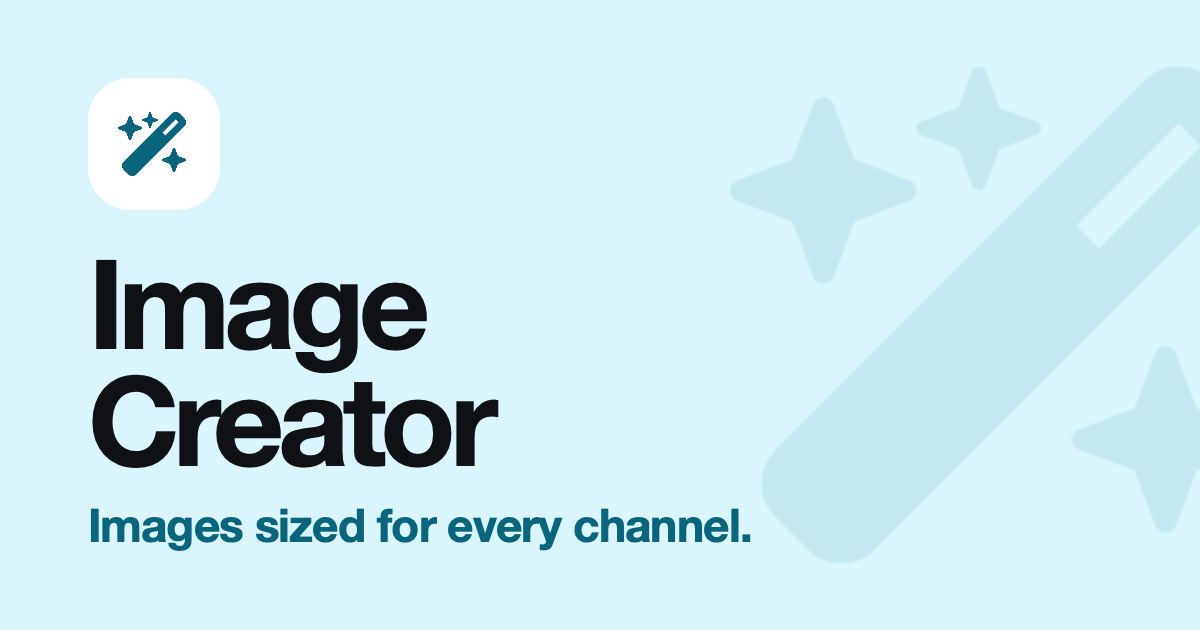
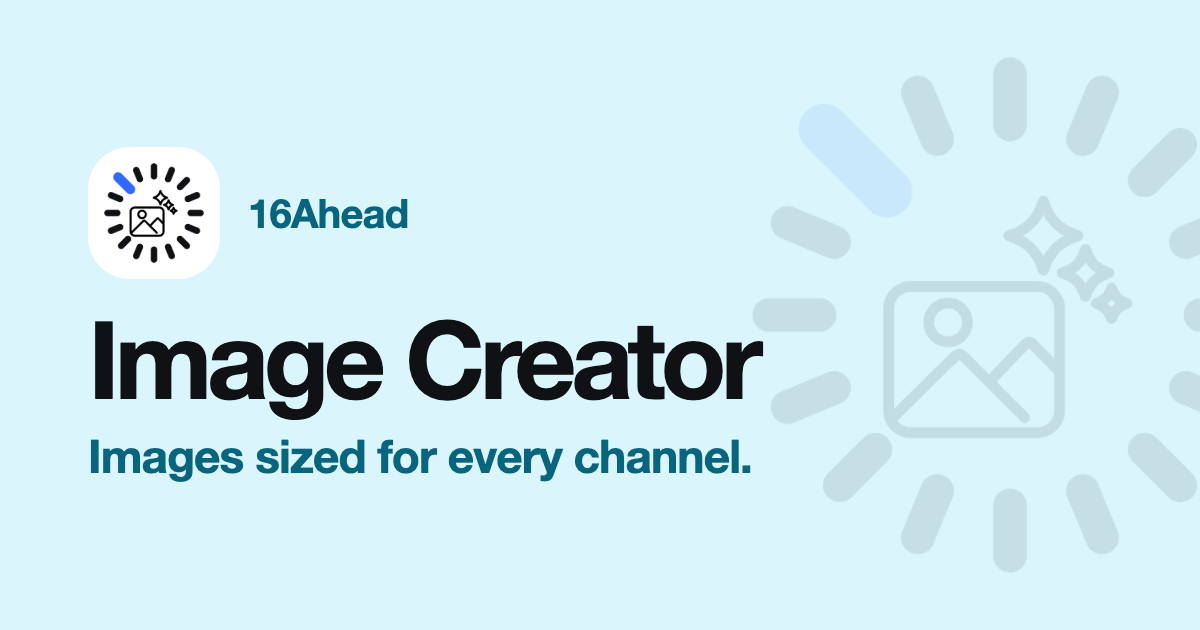
16ahead migration

diff --git a/src/app/features/creator/creator.component.html b/src/app/features/creator/creator.component.html
@@ -3,8 +3,8 @@
 <div class="app" [class.app--panel]="!!auth.user() && !!selected()">
   <header class="topbar">
     <a class="brand" routerLink="/">
-      <span class="brand-mark"><img src="assets/image-creator-logo.png" alt="" /></span>
-      <span class="brand-name"><span class="brand-todd">TODD </span><span class="brand-product">Image Creator</span></span>
+      <span class="brand-mark"><img class="brand-mark--light" src="assets/brand/products/svg/light/14-image-creator.svg" alt="" /><img class="brand-mark--dark" src="assets/brand/products/svg/dark/14-image-creator.svg" alt="" /></span>
+      <span class="brand-name"><span class="brand-todd">16Ahead </span><span class="brand-product">Image Creator</span></span>
     </a>
 
     <div class="topbar-actions">
@@ -21,7 +21,7 @@
                 <button type="button" class="pill" (click)="cancelBuying()" data-cy="buy-credits-waiting">Finish checkout in the new tab…</button>
               } @else {
                 <button type="button" class="pill pill-buy" (click)="buyMore()" [disabled]="buying() === 'starting'" data-cy="buy-credits">Buy 5 more images</button>
-                <button type="button" class="pill" (click)="buySuite()" [disabled]="buying() === 'starting'" data-cy="buy-suite" title="Every TODD app, and 10x the free images every day"><span class="long">Get TODD Suite · 10x daily</span><span class="short">Suite</span></button>
+                <button type="button" class="pill" (click)="buySuite()" [disabled]="buying() === 'starting'" data-cy="buy-suite" title="Every 16Ahead app, and 10x the free images every day"><span class="long">Get 16Ahead Suite · 10x daily</span><span class="short">Suite</span></button>
               }
             }
           }
@@ -51,8 +51,8 @@
                 <span class="intro-mark"><span class="um-glyph" data-key="image-creator"></span></span>
                 <h1>What should we create?</h1>
                 <p>
-                  Tell TODD what you want, or attach a logo or example image to work from.
-                  TODD will ask if anything's unclear, then create the image for you to download.
+                  Tell 16Ahead what you want, or attach a logo or example image to work from.
+                  16Ahead will ask if anything's unclear, then create the image for you to download.
                 </p>
                 @if (auth.user()) {
                   <span class="label">Try one</span>
@@ -66,11 +66,11 @@
                   </div>
                 } @else {
                   <div class="intro-actions">
-                    <button type="button" class="primary big" (click)="auth.signIn()">Sign in with TODD</button>
+                    <button type="button" class="primary big" (click)="auth.signIn()">Sign in with 16Ahead</button>
                     <a class="pill big" routerLink="/help">How it works</a>
                   </div>
                   <p class="fine-print">Nothing is saved. Download the images you want to keep before you leave.</p>
-                  <p class="tt-made-by tt-made-by--center"><a href="https://todd.taliferro.tech" target="_blank" rel="noopener"><span class="tt-made-by__todd"><img src="todd-icon.png" alt="" /></span>Powered by <strong>TODD</strong></a><i aria-hidden="true"></i><a appAlsoFromUs></a></p>
+                  <p class="tt-made-by tt-made-by--center"><a href="https://app.16ahead.com" target="_blank" rel="noopener"><span class="tt-made-by__todd"><img class="brand-mark--light" src="assets/brand/products/png/light/01-16ahead-64.png" alt="" /><img class="brand-mark--dark" src="assets/brand/products/png/dark/01-16ahead-64.png" alt="" /></span>Powered by <strong>16Ahead</strong></a><i aria-hidden="true"></i><a appAlsoFromUs></a></p>
                 }
               </section>
             } @else {
@@ -96,7 +96,7 @@
                   </div>
                 } @else {
                   <div class="row row-todd">
-                    <span class="avatar"><img src="todd-icon.png" alt="TODD" /></span>
+                    <span class="avatar"><img src="todd-icon.png" alt="16Ahead" /></span>
                     <div class="todd-message">
                       <p class="todd-text">{{ message.text }}</p>
 
@@ -119,7 +119,7 @@
                             <svg viewBox="0 0 24 24" aria-hidden="true"><path d="M2 12s3-7 10-7 10 7 10 7-3 7-10 7-10-7-10-7Z" /><circle cx="12" cy="12" r="3" /></svg>
                           </button>
                           <figure class="inline-result">
-                            <img [src]="image.dataUrl" alt="Image created by TODD" />
+                            <img [src]="image.dataUrl" alt="Image created by 16Ahead" />
                             @if (image.width) {
                               <figcaption>{{ image.width }} × {{ image.height }} px · PNG · {{ versionLabel(image) }}</figcaption>
                             }
@@ -153,8 +153,8 @@
 
               @if (thinking()) {
                 <div class="row row-todd">
-                  <span class="avatar"><img src="todd-icon.png" alt="TODD" /></span>
-                  <span class="dots" aria-label="TODD is thinking"><i></i><i></i><i></i></span>
+                  <span class="avatar"><img src="todd-icon.png" alt="16Ahead" /></span>
+                  <span class="dots" aria-label="16Ahead is thinking"><i></i><i></i><i></i></span>
                 </div>
               }
             }
@@ -234,12 +234,12 @@
           </div>
 
           <div class="stage">
-            <img #stageImg [src]="current.image.dataUrl" alt="Image created by TODD" (load)="onStageLoad(stageImg)" />
+            <img #stageImg [src]="current.image.dataUrl" alt="Image created by 16Ahead" (load)="onStageLoad(stageImg)" />
           </div>
           <p class="stage-caption">Shown at {{ shownPercent() }}% of actual size</p>
           @if (current.image.prompt) {
             <details class="sent-prompt">
-              <summary>Prompt TODD sent</summary>
+              <summary>Prompt 16Ahead sent</summary>
               <p>{{ current.image.prompt }}</p>
             </details>
           }
@@ -261,6 +261,6 @@
   }
 
   @if (dragging()) {
-    <div class="drop-overlay"><div>Drop images for TODD to use</div></div>
+    <div class="drop-overlay"><div>Drop images for 16Ahead to use</div></div>
   }
 </div>

diff --git a/src/index.html b/src/index.html
@@ -2,26 +2,28 @@
 <html lang="en">
 <head>
   <meta charset="utf-8">
-  <title>TODD Image Creator</title>
+  <title>16Ahead Image Creator</title>
   <base href="/">
   <meta name="viewport" content="width=device-width, initial-scale=1, viewport-fit=cover">
-  <meta name="description" content="Describe the image you want. TODD creates logos, icons, and images you can download.">
-  <link rel="canonical" href="https://images.taliferro.tech/">
+  <meta name="description" content="Describe the image you want. 16Ahead creates logos, icons, and images you can download.">
+  <link rel="canonical" href="https://images.16ahead.com/">
   <meta property="og:type" content="website">
-  <meta property="og:url" content="https://images.taliferro.tech/">
-  <meta property="og:title" content="TODD Image Creator">
+  <meta property="og:site_name" content="16Ahead">
+  <meta property="og:title" content="16Ahead Image Creator">
   <meta property="og:description" content="Images sized for every channel.">
-  <meta name="twitter:card" content="summary_large_image">
-  <meta name="twitter:title" content="TODD Image Creator">
-  <meta name="twitter:description" content="Images sized for every channel.">
-  <meta property="og:image" content="https://images.taliferro.tech/assets/og-image.png">
+  <meta property="og:url" content="https://images.16ahead.com/">
+  <meta property="og:image" content="https://images.16ahead.com/assets/og-image.png">
   <meta property="og:image:width" content="1200">
   <meta property="og:image:height" content="630">
-  <meta property="og:image:alt" content="Image Creator: Images sized for every channel">
-  <meta name="twitter:image" content="https://images.taliferro.tech/assets/og-image.png">
-  <meta name="twitter:image:alt" content="Image Creator: Images sized for every channel">
-  <link rel="icon" type="image/png" href="assets/image-creator-logo.png">
-  <link rel="apple-touch-icon" href="assets/image-creator-touch-icon.png">
+  <meta property="og:image:alt" content="16Ahead Image Creator: Images sized for every channel.">
+  <meta name="twitter:card" content="summary_large_image">
+  <meta name="twitter:title" content="16Ahead Image Creator">
+  <meta name="twitter:description" content="Images sized for every channel.">
+  <meta name="twitter:image" content="https://images.16ahead.com/assets/og-image.png">
+  <meta name="twitter:image:alt" content="16Ahead Image Creator: Images sized for every channel.">
+  <link rel="icon" href="/assets/brand/products/png/light/14-image-creator-64.png" type="image/png" media="(prefers-color-scheme: light)">
+  <link rel="icon" href="/assets/brand/products/png/dark/14-image-creator-64.png" type="image/png" media="(prefers-color-scheme: dark)">
+  <link rel="apple-touch-icon" href="/assets/brand/products/png/light/14-image-creator.png">
   <!-- The home page is prerendered signed-out for search engines. For someone
        who was signed in last visit, hide it until the app renders so they
        don't see "Sign in" flash first. AppComponent removes the class. -->

diff --git a/src/app/features/help/help.component.ts b/src/app/features/help/help.component.ts
@@ -13,7 +13,7 @@ import { ProductPagesComponent } from '../../shared/product-pages/product-pages.
 export class HelpComponent {
   readonly tips = [
     { title: 'Say what it’s for', copy: 'A banner, a social post, a product shot, an icon. The purpose shapes the composition.' },
-    { title: 'Give the size', copy: 'Put the pixel size in your request, for example 975 × 110. TODD makes the image to fit it.' },
+    { title: 'Give the size', copy: 'Put the pixel size in your request, for example 975 × 110. 16Ahead makes the image to fit it.' },
     { title: 'Attach a starting point', copy: 'A logo to use, or an example of the style you want. Drop it on the page or use the + button.' },
     { title: 'Ask for changes', copy: 'Reply in plain words, such as “lighter background”. Every version stays in the panel to compare.' },
   ];
@@ -22,14 +22,14 @@ export class HelpComponent {
     { name: 'Square', copy: '1024 × 1024. Icons, logos and most social posts.' },
     { name: 'Landscape', copy: '1536 × 1024. Banners, headers and slides.' },
     { name: 'Portrait', copy: '1024 × 1536. Posters and stories.' },
-    { name: 'Exact sizes', copy: 'Ask for any size, such as a 975 × 110 header, and TODD fits the image to it.' },
+    { name: 'Exact sizes', copy: 'Ask for any size, such as a 975 × 110 header, and 16Ahead fits the image to it.' },
     { name: 'Transparent background', copy: 'Ask for one, for logos and icons you’ll place on other designs.' },
   ];
 
   readonly questions = [
     { q: 'What can I attach?', a: 'PNG, JPG or WEBP images up to 20 MB each.' },
-    { q: 'Will it copy someone else’s logo or artwork?', a: 'Use images you have the rights to. TODD works from what you attach and describe.' },
-    { q: 'Why did TODD ask me a question?', a: 'When a request is unclear, such as the size or the text to include, TODD asks before it spends one of your images.' },
+    { q: 'Will it copy someone else’s logo or artwork?', a: 'Use images you have the rights to. 16Ahead works from what you attach and describe.' },
+    { q: 'Why did 16Ahead ask me a question?', a: 'When a request is unclear, such as the size or the text to include, 16Ahead asks before it spends one of your images.' },
     { q: 'When does the limit reset?', a: 'At midnight Pacific time. The pill in the header shows what’s left today.' },
   ];
 }

diff --git a/src/app/features/about/about.component.html b/src/app/features/about/about.component.html
@@ -14,12 +14,12 @@
   <section class="pp-section" aria-labelledby="ic-private-title">
     <p class="pp-kicker">Nothing is kept</p>
     <h2 id="ic-private-title">Your images stay yours</h2>
-    <p>The conversation, your uploads and the images TODD makes live only in your browser tab. Download what you want to keep; when you close the tab, they’re gone.</p>
+    <p>The conversation, your uploads and the images 16Ahead makes live only in your browser tab. Download what you want to keep; when you close the tab, they’re gone.</p>
   </section>
 
   <section class="pp-section" aria-labelledby="ic-who-title">
     <p class="pp-kicker">Who makes it</p>
-    <h2 id="ic-who-title">Free with TODD, from Taliferro Tech</h2>
-    <p>Image Creator is made by Taliferro Tech in Seattle. Sign in with your TODD account to use your daily image allowance.</p>
+    <h2 id="ic-who-title">Free with 16Ahead, from Taliferro Tech</h2>
+    <p>Image Creator is made by Taliferro Tech in Seattle. Sign in with your 16Ahead account to use your daily image allowance.</p>
   </section>
 </app-product-pages>

diff --git a/src/app/shared/product-pages/product-pages.component.html b/src/app/shared/product-pages/product-pages.component.html
@@ -64,10 +64,10 @@
             <p>{{ item[1] }}</p>
           </article>
         </div>
-        <a *ngIf="content.key !== 'ask-todd'" class="pp-todd" href="https://ask.taliferro.tech">
+        <a *ngIf="content.key !== 'ask-todd'" class="pp-todd" href="https://assistant.16ahead.com">
           <span class="pp-todd__mark" aria-hidden="true"><span class="um-glyph" data-key="ask-todd"></span></span>
-          <span><strong>Part of TODD.</strong> TODD is a Momentum System. It turns scattered information into clear next moves.</span>
-          <span class="pp-todd__go">Ask TODD <span [innerHTML]="icon('arrow-up-right', 16)" aria-hidden="true"></span></span>
+          <span><strong>Part of 16Ahead.</strong> 16Ahead is a Momentum System. It turns scattered information into clear next moves.</span>
+          <span class="pp-todd__go">General Assistant <span [innerHTML]="icon('arrow-up-right', 16)" aria-hidden="true"></span></span>
         </a>
       </ng-template>
 

diff --git a/src/app/services/auth.service.ts b/src/app/services/auth.service.ts
@@ -1,5 +1,6 @@
 import { Injectable, signal } from '@angular/core';
 import { getAuth, onAuthStateChanged, signInWithCustomToken, signOut, User } from 'firebase/auth';
+import { hostedLoginUrl } from '@taliferro/ui/platform/hosted-login.model';
 
 /**
  * Sign-in goes through TODD's hosted login (todd.taliferro.tech/login), the
@@ -38,7 +39,7 @@ export class AuthService {
     sessionStorage.setItem( this.pendingLoginStorageKey, JSON.stringify( { state, returnUrl } ) );
     const isLocal = [ 'localhost', '127.0.0.1' ].includes( window.location.hostname );
     const client = isLocal ? 'image-creator-web-local' : 'image-creator-web';
-    window.location.href = `https://todd.taliferro.tech/login?client=${ client }&state=${ state }`;
+    window.location.href = hostedLoginUrl( client, state );
   }
 
   consumePendingLogin ( state: string | null ): { returnUrl?: string } | null {

diff --git a/src/styles.css b/src/styles.css
@@ -31,3 +31,15 @@ body {
   line-height: 1.5;
   -webkit-font-smoothing: antialiased;
 }
+
+/* The product mark (design_handoff_16ahead_logos) comes as a light/dark
+ * pair: each spot renders both and the theme hides one. The light set's
+ * black ticks vanish on dark, and inverting it turns the blue tick orange. */
+@media not (prefers-color-scheme: dark) {
+  :root:not(.dark):not([data-theme="dark"]) .brand-mark--dark { display: none !important; }
+}
+:root.light .brand-mark--dark, :root[data-theme="light"] .brand-mark--dark { display: none !important; }
+@media (prefers-color-scheme: dark) {
+  :root:not(.light):not([data-theme="light"]) .brand-mark--light { display: none !important; }
+}
+:root.dark .brand-mark--light, :root[data-theme="dark"] .brand-mark--light { display: none !important; }

diff --git a/src/environments/environment.ts b/src/environments/environment.ts
@@ -3,7 +3,7 @@ import packageJson from '../../package.json';
 export const environment = {
   production: false,
   VERSION: String( packageJson.version || '' ),
-  PLATFORM_URL: 'https://images.taliferro.tech',
+  PLATFORM_URL: 'https://images.16ahead.com',
   backendURL: 'https://api.taliferro.tech/api',
   taliferroTenantId: 'yH3nWanUv0RqDCNfwXBOXLWuxt52',
   // Firebase web config is public by design; access is enforced by Auth + the backend.
@@ -14,6 +14,6 @@ export const environment = {
     storageBucket: 'taliferrotech.appspot.com',
     messagingSenderId: '633736143723',
     appId: '1:633736143723:web:1f91a0cc7efcdc9b5fe22e',
-    measurementId: 'G-YQ9PHPM6FJ',
+    measurementId: 'G-4QZ1CSSGYJ',
   },
 };

diff --git a/src/environments/environment.prod.ts b/src/environments/environment.prod.ts
@@ -3,7 +3,7 @@ import packageJson from '../../package.json';
 export const environment = {
   production: true,
   VERSION: String( packageJson.version || '' ),
-  PLATFORM_URL: 'https://images.taliferro.tech',
+  PLATFORM_URL: 'https://images.16ahead.com',
   backendURL: 'https://api.taliferro.tech/api',
   taliferroTenantId: 'yH3nWanUv0RqDCNfwXBOXLWuxt52',
   // Firebase web config is public by design; access is enforced by Auth + the backend.
@@ -14,6 +14,6 @@ export const environment = {
     storageBucket: 'taliferrotech.appspot.com',
     messagingSenderId: '633736143723',
     appId: '1:633736143723:web:1f91a0cc7efcdc9b5fe22e',
-    measurementId: 'G-YQ9PHPM6FJ',
+    measurementId: 'G-4QZ1CSSGYJ',
   },
 };

diff --git a/src/app/core/interceptors/id-token.interceptor.ts b/src/app/core/interceptors/id-token.interceptor.ts
@@ -18,7 +18,9 @@ function isToddBackend ( url: string ): boolean {
   if ( url.startsWith( '/' ) ) return true;
   try {
     const host = new URL( url ).hostname;
-    return host === 'taliferro.tech' || host.endsWith( '.taliferro.tech' ) || host.endsWith( '.run.app' ) ||
+    return host === 'taliferro.tech' || host.endsWith( '.taliferro.tech' ) ||
+      host === '16ahead.io' || host.endsWith( '.16ahead.io' ) || host.endsWith( '.16ahead.com' ) || host.endsWith( '.16ahead.store' ) ||
+      host.endsWith( '.run.app' ) ||
       host === 'localhost' || host === '127.0.0.1';
   } catch {
     return false;

diff --git a/src/app/services/image-creator-api.service.ts b/src/app/services/image-creator-api.service.ts
@@ -143,7 +143,7 @@ export class ImageCreatorApiService {
     } catch ( error ) {
       if ( error instanceof HttpErrorResponse ) {
         const message = error.status === 0 ?
-          'Could not reach TODD. Check your connection and try again.' :
+          'Could not reach 16Ahead. Check your connection and try again.' :
           error.status === 413 ?
             'Those images are too large to send together. Try fewer or smaller attachments.' :
             error.error?.message || 'Something went wrong. Please try again.';

diff --git a/src/app/features/creator/creator.component.ts b/src/app/features/creator/creator.component.ts
@@ -193,7 +193,7 @@ export class CreatorComponent {
       await this.refreshUsage();
       if ( ( this.usage()?.limit || 0 ) > before ) {
         this.buying.set( 'idle' );
-        this.notice.set( 'Thanks! TODD Suite is on: every TODD app, and 10x the free images every day.' );
+        this.notice.set( 'Thanks! 16Ahead Suite is on: every 16Ahead app, and 10x the free images every day.' );
         return;
       }
     }
